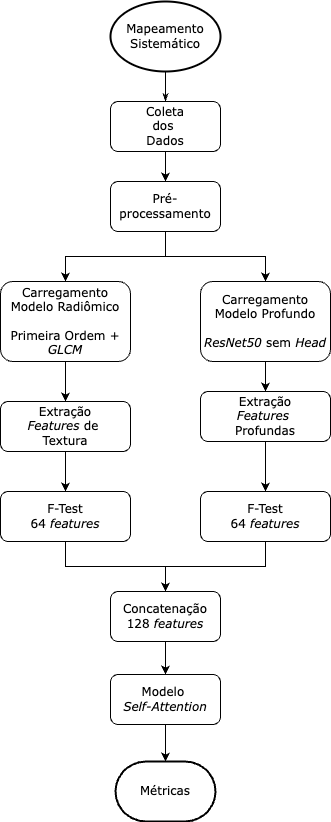
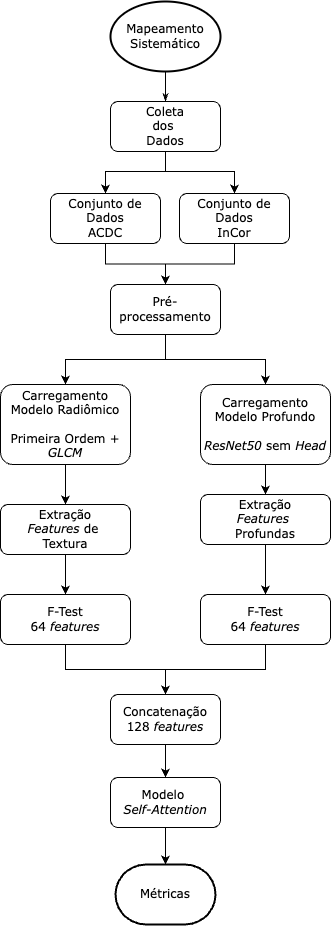
Correção Parcial Completa

diff --git a/04-metodologia.tex b/04-metodologia.tex
@@ -1,13 +1,24 @@
 \chapter{Metodologia} 
 \label{chap:metodologia}
 
-O objetivo deste trabalho é propor e investigar uma arquitetura de aprendizado profundo que unifica características radiômicas e características profundas. Inicialmente, é empregado diversas técnicas de aprendizado de máquina para extrair características manuais de imagens de RM, abrangendo textura, forma, escala de cinza, etc. Posteriormente, uma rede \textit{ResNet50} pré-treinada é utilizada para extrair características profundas que encapsulam informações semânticas de alto nível e de representação das imagens de \gls{RMC}. Estas características são então fundidas em um vetor de características unificado. Para aprimorar a acurácia e a robustez, um módulo foi desenvolvido utilizando o mecanismo de autoatenção, módulo este que otimiza e pondera o vetor de características fundidas de forma eficaz.
+O objetivo deste trabalho é propor e investigar uma arquitetura de aprendizado profundo que unifica características radiômicas e características profundas. Inicialmente, é empregado diversas técnicas de aprendizado de máquina para extrair características manuais de imagens de RM, abrangendo textura, forma, escala de cinza, etc. Posteriormente, uma rede \textit{ResNet50} pré-treinada é utilizada para extrair características profundas que encapsulam informações semânticas de alto nível e de representação das imagens de \gls{RMC}. Estas características são então fundidas em um vetor de características unificado. Para aprimorar a acurácia e a robustez, um módulo foi desenvolvido utilizando o mecanismo de autoatenção, módulo este que otimiza e pondera o vetor de características fundidas de forma eficaz. A Figura \ref{fig:fig015} confere o fluxograma do projeto ilustrando de forma esquemática as fases que serão atuadas.
+
+\begin{figure}[h!]
+    \centering
+    \caption{Fluxograma do Projeto}
+    \includegraphics[width=0.4\textwidth]{figures/fig015.png}
+    \caption*{Fonte: Autor}
+    \label{fig:fig015}
+\end{figure}
 
 %--------------------------------------------------------
-\subsection{Conjunto de Dados} 
+\section{Bases de Dados} 
 \label{subsec:cap4_dataset}
 
-\subsubsection{Conjunto de Dados ACDC} 
+Duas bases de dados serão utilizas para experimento. O primeiro conjunto de dados é o \gls{ACDC}\footnote{https://www.creatis.insa-lyon.fr/Challenge/acdc/databases.html}, sendo seus dados públicos para fins de pesquisa. O segundo conjunto de dados consiste, de um conjunto de dados privado, seu acesso se dá pela parceria existente entre a \gls{FEI} e o \gls{InCor}.
+
+%--------------------------------------------------------
+\subsection{Conjunto de Dados ACDC} 
 \label{subsec:cap4_acdc}
 
 O conjunto de dados \gls{ACDC} foi criado a partir de exames clínicos reais adquiridos no hospital universitário de Dijon (França). Os dados adquiridos foram totalmente anonimizados e tratados de acordo com as regulamentações estabelecidas pelo comitê ético local do hospital de Dijon. O conjunto de dados cobre várias patologias bem definidas com casos suficientes para (1) treinar adequadamente métodos de aprendizado de máquina e (2) avaliar claramente as variações dos principais parâmetros fisiológicos obtidos a partir de cine-RM (em particular volume diastólico e fração de ejeção). O conjunto de dados é composto por 150 exames (todos de pacientes diferentes) divididos em cinco subgrupos distribuídos de forma igualitária, sendo quatro patológicos e um grupo de sujeitos saudáveis. Dentre as cinco classes distintas, tem-se: \gls{DCM}, \gls{HCM}, \gls{NOR}, \gls{MINF} e \gls{RV}. As classes \gls{DCM} e |gls{HCM} são interpretadas como passíveis de \gls{CMH} e as demais; \gls{NOR}, \gls{MINF} e \gls{RV}; são interpretadas como o coração em condições normais, detalhes das classes podem ser verificados na Tabela \ref{tab:conditions}. 
@@ -65,7 +76,7 @@ Além disso, cada paciente vem com as seguintes informações adicionais: peso, 
     \renewcommand{\arraystretch}{1} % default é 1 
     \begin{tabular}{|c|c|c|c|}
     \hline 
-          \textbf{Grupo} & \textbf{Quantidade} & \textbf{C/ HC} & \textbf{S/ HC}  \\ 
+          \textbf{Grupo} & \textbf{Quantidade} & \textbf{C/ CH} & \textbf{S/ CH}  \\ 
     \hline 
         NOR & 30 & 0 & 30 \\ 
         DCM & 30 & 30 & 0\\ 
@@ -81,7 +92,7 @@ Além disso, cada paciente vem com as seguintes informações adicionais: peso, 
 \end{table}
 
 %--------------------------------------------------------
-\subsubsection{Conjunto de Dados InCor} 
+\subsection{Conjunto de Dados InCor} 
 \label{subsec:cap4_incor}
 
 O conjunto de dados \gls{InCor} é composto por casos reais de pacientes que realizaram exames de \gls{RMC} e que foram classificados por especialistas do \gls{InCor} como casos que continham cardiomiopatia hipertrófica, cardiomiopatia dilatada ou nenhuma das duas anomalias. No total foram adquiridos 400 casos, distribuídos conforme a Figura \ref{fig:fig013}, na qual é possível verificar que a maioria dos casos (69\%) pertencem a indivíduos do sexo masculino, enquanto 31\% pertencem a mulheres. Dentro do grupo de homens verificou-se uma predominância de casos sem anomalia para pacientes com idades entre 21 a 41 anos (25\%), enquanto no grupo de mulheres notou-se que o número maior de casos (21\%) era composto por casos hipertróficos em pacientes com idade entre 42 a 62 anos \cite{bergamascoRECUPERACAOOBJETOSMEDICOS2018}.
@@ -95,38 +106,25 @@ O conjunto de dados \gls{InCor} é composto por casos reais de pacientes que rea
 \end{figure}
 
 %---------------------------------------------------------
-\section{ResNet}
-\label{subsec:cap4_resnet}
+\section{Pré-Processamento}
+\label{subsec:cap4_preprocess}
 
-A \textit{ResNet} (Rede Residual) é uma arquitetura de rede neural profunda amplamente utilizada em tarefas de visão computacional, como classificação de imagens, detecção de objetos e segmentação de imagens. Ela foi introduzida por  \cite{heDeepResidualLearning2015}, e se destacou por ganhar a competição ImageNet em 2015 com uma precisão significativamente maior do que as arquiteturas anteriores. A principal característica da \textit{ResNet} é sua capacidade de treinar redes muito profundas sem sofrer com o problema do "desvanecimento do gradiente" que afeta principalmente redes neurais profundas e impede o treinamento de progredir por conta de valores muito baixos de gradiente, problema este muito comum em redes tradicionais muito profundas. A \textit{ResNet} introduz um conceito chave chamado bloco residual que é um componente da rede onde a entrada do bloco é somada à sua saída antes de passar para a próxima camada. Esta conexão direta é chamada de \textit{skip connection} ou \textit{short-cut connection} e pode ser conferida na Figura 11.
-
-\begin{figure}[htbp]
-    \centering
-    \includegraphics[width=0.6\textwidth]{figures/fig013.png}
-    \caption{Fonte: \cite{aiSelfAttentionBasedFusion2023}}
-    \label{fig:fig013}
-\end{figure}
-
-A ResNet é composta por vários blocos residuais empilhados.
-Existem várias versões da \textit{ResNet}, como \textit{ResNet}-18, \textit{ResNet}-34, \textit{ResNet}-50, \textit{ResNet}-101, e \textit{ResNet}-152, onde os números indicam a profundidade total da rede, ou seja, o número de camadas).
-% A \textit{ResNet}, desenvolvidas por \cite{heDeepResidualLearning2015}, são arquiteturas convolucionais formada pela composição de blocos residuais, seguidos de uma camada completamente conectada. Estes blocos, ilustrados na Figura 11, empregam o que os autores chamam de \textit{skip connections}, conexões que permitem que camadas sejam puladas durante o treino, resolvendo o problema conhecido como \textit{vanishing gradient}, que afeta principalmente redes neurais profundas e impede o treinamento de progredir por conta de valores muito baixos de gradiente. A inovação trazida por este modelo permitiu a criação de redes muito mais profundas e pode possuir um número definido de camadas, portanto o uso de nomes como ResNet50 ou ResNet101 é uma prática comum para identificar a quantidade de camadas utilizadas no modelo.
+Na fase de pré-processamento será utilizado o conjunto de dados \gls{ACDC}. No \gls{ACDC} será separado aplicado três classe: \gls{CMH} do grupo HCM, \gls{CMD} do grupo HCM e NOR para os demais grupos. O conjuntos de \textit{frames} utilizados serão os definidos na fase diastólica e a quantidade de \textit{frames} é variada para cada paciente. As características radiômicas e profundas serão extraídas e posteriormente, será aplicado o \textit{F-Test} para selecionar as características mais relevantes, mantendo o mesmo número de ambas as partes. Por fim este resultado será concatenado e servirá de entrada para a rede proposta de autoatenção.
 
 %---------------------------------------------------------
-\subsection{Features Radiômicas}
+\section{Extração de Características Radiômicas}
 \label{subsec:cap4_features_radiomicas}
 
 Serão extraídas características radiômicas de fase diastólica, representada por um conjunto de fatias variando entre 6 e 18 \textit{frames}, de cada paciente usando \gls{GLCM} e estatísticas baseadas em histograma. Será aplicado o filtro \gls{LoG} com cinco valores diferentes em cada parte para suavizar as imagens e realçar as bordas. Foi calculado características \gls{GLCM} como contraste, entropia, correlação, homogeneidade e energia para cada filtro \gls{LoG}. Também é calculado características de intensidade como média, variância, média dos percentis (10 e 90), desvio robusto da média absoluta, curtose e assimetria usando estatísticas de primeira ordem. Foram obtidos 78 características radiômicas para cada paciente dentro da quantidade de fatias extraídas na fase diastólica.
 
-% @TODO - Fase diastólica explicar pag - 33
-
 %---------------------------------------------------------
-\subsection{Features Profundas}
+\section{Extração de Características Profundas}
 \label{subsec:cap4_features_profundas}
  
 Para extrair características profundas das imagens de \gls{RMC}, é utilizada a arquitetura pré-treinada de um \textit{ResNet50} sem sua última camada totalmente conectada, treinada no conjunto de dados \textit{ImageNet}. Estudos anteriores demonstraram que o pré-treinamento com \textit{ImageNet} pode melhorar o desempenho de tarefas de classificação de imagens médicas. \textit{ResNet50} é um modelo de rede neural convolucional profunda com 50 camadas que compreende muitos blocos residuais. Cada bloco contém módulos de convolução e uma conexão de salto que transfere a informação do bloco anterior para o próximo bloco. A conexão de salto ajuda a reter a informação semântica mais básica aprendida nas camadas anteriores, que de outra forma se tornaria abstrata devido à conexão de longa cadeia. A conexão de salto também evita o desaparecimento do gradiente nas camadas mais profundas ao fornecer um caminho alternativo para a retropropagação. A informação da conexão de salto é adicionada à informação calculada em cada bloco \cite{aiSelfAttentionBasedFusion2023}. Ao todo são 2048 características coletadas da saída deste modelo.
 
 %---------------------------------------------------------
-\subsection{Unificando as Features}
+\section{Concatenação}
 \label{subsec:cap4_unificando_features}
 
 Um vez em posse das features radiômicas, é aplicado um \textit{F-Test} tanto às 78 características radiômicas quanto às 2048 características profundas, reduzindo cada um dos vetores ao espaço de 64 características. No método de fusão convencional, simplesmente é concatenado os dois vetores de características como na Eq. \ref{eq:concat}, onde \textit{Concat} simplesmente concatena os dois vetores. Unificando ambos os vetores obtemos o valor resultante de 128 características o qual será enviado ao mecanismo de autoatenção.
@@ -137,16 +135,13 @@ F_{hd} = \textit{Concat}(F_h, F_d)
 \end{equation}
 
 %---------------------------------------------------------
-\subsection{Módulo de Fusão de Autoatenção}
+\section{Modelo de Autoatenção}
 \label{subsec:cap4_mod_self_attention}
 
-Neste trabalho é empregado o mecanismo de autoatenção para aprender a importância de cada característica e capturar suas dependências de longo alcance. Como ilustrado na Figura \ref{fig:fig011}, o módulo de fusão de autoatenção é utilizado para mapear uma consulta ($Q$), chave ($K$) e valor ($V$) para um valor de atenção. São utilizadas as 128 características concatenadas $F_{hd}$  como \textit{tokens} e projetada cada característica em três matrizes aprendíveis: matriz chave $K$, matriz consulta $Q$ e matriz de valor $V$ por produto escalar com as matrizes $W_{Q}$, $W_{K}$ e $W_{V}$. Logo os valores $Q$, $K$, $V$ são denotados como $W_{Q}F_{gd}$, $W_{K}F_{gd}$, $W_{V}F_{gd}$ respectivamente, onde $W_{Q}$, $W_{K}$ e $W_{V}$ representam a transformação linear para as matrizes $Q$, $K$ e $V$. O módulo de fusão baseado em autoatenção é definido como segue na Equação \ref{eq:attention}, onde $d_{k}$ é a dimensão do valor de $K$. Sem utilizar operações recorrentes ou convolucionais, o módulo de fusão de autoatenção pode modelar as dependências de longo prazo entre as características de entrada.      Este módulo calcula de forma adaptativa os pesos entre as características com base em sua importância e relevância, capturando de forma mais abrangente as associações entre características radiômicas e profundas. Tal processo realça a capacidade expressiva das características fundidas e permite que o modelo foque mais precisamente nas características mais informativas para prever \gls{CH} e reduzir a influência de características irrelevantes na previsão. Além disso, o modelo pode alocar dinamicamente atenção a diferentes amostras de imagens de \gls{RMC}. Essa flexibilidade permite com que o modelo se adapte melhor à representação de características de diferentes amostras, melhorando a precisão e a generalização da previsão.
+Neste trabalho é empregado o mecanismo de autoatenção para aprender a importância de cada característica e capturar suas dependências de longo alcance. Como ilustrado na Figura \ref{fig:fig011}, o módulo de fusão de autoatenção é utilizado para mapear uma consulta ($Q$), chave ($K$) e valor ($V$) para um valor de atenção. São utilizadas as 128 características concatenadas $F_{hd}$ como \textit{tokens} e projetada cada característica em três matrizes aprendíveis: matriz chave $K$, matriz consulta $Q$ e matriz de valor $V$ por produto escalar com as matrizes $W_{Q}$, $W_{K}$ e $W_{V}$. Logo os valores $Q$, $K$, $V$ são denotados como $W_{Q}F_{gd}$, $W_{K}F_{gd}$, $W_{V}F_{gd}$ respectivamente, onde $W_{Q}$, $W_{K}$ e $W_{V}$ representam a transformação linear para as matrizes $Q$, $K$ e $V$. O módulo de fusão baseado em autoatenção é definido como segue na Equação \ref{eq:attention}, onde $d_{k}$ é a dimensão do valor de $K$. Sem utilizar operações recorrentes ou convolucionais, o módulo de fusão de autoatenção pode modelar as dependências de longo prazo entre as características de entrada.
+Este módulo calcula de forma adaptativa os pesos entre as características com base em sua importância e relevância, capturando de forma mais abrangente as associações entre características radiômicas e profundas. Tal processo realça a capacidade expressiva das características fundidas e permite que o modelo foque mais precisamente nas características mais informativas para prever \gls{CMH} e reduzir a influência de características irrelevantes na previsão. Além disso, o modelo pode alocar dinamicamente atenção a diferentes amostras de imagens de \gls{RMC}. Essa flexibilidade permite com que o modelo se adapte melhor à representação de características de diferentes amostras, melhorando a precisão e a generalização da previsão.
 
-%---------------------------------------------------------
-\subsection{Função de Perda}
-\label{subsec:cap4_funcao_perda}
-
-A função de perda utilizada utilizada no modelo é a função de entropia cruzada binária, do termo  \gls{BCE}, que é calculada pela Eq. \ref{eq:bce} onde $\mathcal{L}_{bce}$ denota o \gls{BCE}, $N$ denota o número de imagens de \gls{RMC}, $r$ denota a classe alvo de \gls{CH} e $\hat{r}$ o valor previsto pelo modelo de \gls{CH}, 1 indica indícios de \gls{CH} e 0 sua ausência.
+A função de perda utilizada utilizada no modelo é a função de entropia cruzada binária, do termo  \gls{BCE}, que é calculada pela Equação. \ref{eq:bce} onde $\mathcal{L}_{bce}$ denota o \gls{BCE}, $N$ denota o número de imagens de \gls{RMC}, $r$ denota a classe alvo de \gls{CH} e $\hat{r}$ o valor previsto pelo modelo de \gls{CMH}, 1 indica indícios de \gls{CMH} e 0 sua ausência.
 
 \begin{equation}
 \mathcal{L}_{bce} = -\frac{1}{N} \sum_{i=1}^N
@@ -155,12 +150,31 @@ A função de perda utilizada utilizada no modelo é a função de entropia cruz
 \end{equation}
 
 %---------------------------------------------------------
-\subsection{Arquitetura Proposta}
-\label{subsec:cap4_arquitetura_proposta}
+\section{Métricas}
+\label{subsec:cap4_metrics}
+Para medir o desempenho da solução serão aplicadas as seguintes métricas: acurácia, precisão, revocação expressas pelas equações \ref{eq:acc}, \ref{eq:precision} e \ref{eq:recall}.
+Também é calculada a \gls{AUC}, também reconhecida como a área que avalia o modelo em diversos limites contínuos de decisão, verificando a taxa de verdadeiros positivos contra falsos positivos em cada limite.
 
-O esquemático da arquitetura proposta pode ser conferida na Figura \ref{fig:fig011}. A imagens de \gls{RMC} são expostas ao seletor de características via \textit{F-test}, as características selecionadas são concatenadas e enviadas ao módulo de fusão de autoatenção, por fim uma camada linear de 128 características precede um camada linear com um único neurônio para a classificação binária.
+\begin{equation}
+  \textit{Acurácia} = \frac{\textit{TP} + \textit{TN}}{\textit{TP} + \textit{TN} + \textit{FP} + \textit{FN}}
+  \label{eq:acc}
+\end{equation}
 
-% @TODO Mover essa parte. pag - 35
+\begin{equation}
+  \textit{Precisão} = \frac{\textit{TP}}{\textit{TP} + \textit{FP}}
+  \label{eq:precision}
+\end{equation}
+
+\begin{equation}
+  \textit{Revocação} = \frac{\textit{TP}}{\textit{TP} + \textit{FN}}
+  \label{eq:recall}
+\end{equation}
+
+%---------------------------------------------------------
+\section{Arquitetura Proposta}
+\label{subsec:cap4_architecture}
+
+O esquemático da arquitetura proposta pode ser conferida na Figura \ref{fig:fig011}. A imagens de \gls{RMC} são expostas ao seletor de características via \textit{F-Test}, as características selecionadas são concatenadas e enviadas ao módulo de fusão de autoatenção, por fim uma camada linear de 128 características precede um camada linear com um único neurônio para a classificação binária. A arquitetura proposta tem como base o trabalho de \cite{aiSelfAttentionBasedFusion2023}.
 
 \begin{figure}[htbp]
     \centering
@@ -170,47 +184,8 @@ O esquemático da arquitetura proposta pode ser conferida na Figura \ref{fig:fig
     \label{fig:fig011}
 \end{figure}
 
-Para medir o desempenho da solução serão aplicadas as seguintes métricas: acurácia e precisão, expressas pelas equações \ref{eq:acc}, \ref{eq:precision} e \ref{eq:recall}.
-Também é calculada a \gls{AUC}, também reconhecida como a área que avalia o modelo em diversos limites contínuos de decisão, verificando a taxa de verdadeiros positivos contra falsos positivos em cada limite.
-
-% A precisão foi escolhida neste contexto pois quanto maior esta for, menor é a taxa de falso negativo nos resultados. A precisão é pertinente quando o custo com a identificação de falso positivos é alto, como é o caso de doenças fatais.
-
-\begin{equation}
-\textit{Acurácia} = \frac{\textit{TP} + \textit{TN}}{\textit{TP} + \textit{TN} + \textit{FP} + \textit{FN}}
-\label{eq:acc}
-\end{equation}
-
-\begin{equation}
-\textit{Precisão} = \frac{\textit{TP}}{\textit{TP} + \textit{FP}}
-\label{eq:precision}
-\end{equation}
-
-\begin{equation}
-\textit{Revocação} = \frac{\textit{TP}}{\textit{TP} + \textit{FN}}
-\label{eq:recall}
-\end{equation}
-
-%---------------------------------------------------------
-\subsection{Fluxograma}
-\label{subsec:cap4_floxugrama}
-
-A Figura \ref{fig:fig015} confere o fluxograma do projeto ilustrando de forma esquemática suas fases de atuação.
-
-% @TODO Mover essa parte. pag - 36
-
-\begin{figure}[h!]
-    \centering
-    \caption{Fluxograma do Projeto}
-    \includegraphics[width=0.4\textwidth]{figures/fig015.png}
-    \caption*{Fonte: Autor}
-    \label{fig:fig015}
-\end{figure}
-
-% @TODO Acrescentar dados Incor e ACDC. pag - 37
-
-
 %---------------------------------------------------------
 \section{Considerações Finais do Capítulo}
 \label{sec:cap4_consideracoes_finais}
 
-Como considerações, destacam-se o uso de base de dados pública, com dados de pacientes incluindo o conjuntos de fatias que identificam a ação de sístole e diástole do coração. É aplicado pré-processamento do qual é extraído manualmente 78 características radiômicas, características estas que analisam textura, níveis e variações dos tons de cinza incluindo diversas estatísticas como de primeira ordem e o \gls{GLCM}. Ainda em fase de pré-processamento é extraída as características profundas oriundas do modelo de visão \textit{ResNet50}, com os pesos treinados na base de dados da \textit{ImageNet}. É removida a última camada linear da \textit{ResNet50} resultando ao seu final, sem a camada classificadora, 2048 características. Em posse de ambas as features, é aplicada a técnica de \textit{F-test} para obter as 64 características mais relevantes e, após, concatená-las obtendo um vetor de características de 128 características. Este vetor é exposto ao módulo de fusão com autoatenção, identificando as características mais determinantes independente de espacialidade. 
+Como considerações, destacam-se o uso de base de dados pública, com dados de pacientes incluindo o conjuntos de fatias que identificam a ação de sístole e diástole do coração. É aplicado pré-processamento do qual é extraído manualmente 78 características radiômicas, características estas que analisam textura, níveis e variações dos tons de cinza incluindo diversas estatísticas como de primeira ordem e o \gls{GLCM}. Ainda em fase de pré-processamento é extraída as características profundas oriundas do modelo de visão \textit{ResNet50}, com os pesos treinados na base de dados da \textit{ImageNet}. É removida a última camada linear da \textit{ResNet50} resultando ao seu final, sem a camada classificadora, 2048 características. Em posse de ambas as features, é aplicada a técnica de \textit{F-Test} para obter as 64 características mais relevantes e, após, concatená-las obtendo um vetor de características de 128 características. Este vetor é exposto ao módulo de fusão com autoatenção, identificando as características mais determinantes independente de espacialidade. 

diff --git a/06-resultados_preliminares.tex b/06-resultados_preliminares.tex
@@ -1,48 +1,37 @@
 \chapter{Resultados  Preliminares}
 \label{chap:resultados_discussao}
 
-%--------------------------------------------------------
-\section{Trabalhos Desenvolvidos} 
-\label{sec:cap6_trabalhos_desenvolvidos}
+Os testes iniciais foram aplicados ao conjunto de dados do \gls{ACDC}. Este conjunto de dados público já vem separado com 100 exames para treino e 50 para testes. A Figura \ref{fig:fig018} e \ref{fig:fig019} são exemplos de imagens de \gls{DCM} e \gls{HCM} capturadas na diástole com suas respectivas máscaras. Na Figura \ref{fig:fig020} temos uma imagem de coração em estado sem anomalia (\gls{NOR}). As imagens demonstradas fazem parte do conjunto de treinamento.
 
-Em paralelo a este trabalho, houve a contribuição com o seguinte trabalho \cite{adornoAutomaticDetectionPeople2023}, trabalho este que visa dar apoio ao metrô de São Paulo na identificação de pessoas com deficiência, para liberar o acesso de forma mais coerente, à apenas aqueles que realmente se encontram nas categorias atendidas, como idosos, gestantes, cadeirantes, etc. Este projeto lida com visão computacional, mais precisamente detecção de objetos, e avalia uma família de modelos para tal tarefa.
-
-
-%--------------------------------------------------------
-\section{Resultados} 
-\label{sec:cap6_resultados}
-
-Os testes iniciais foram aplicados ao conjunto de dados do \gls{ACDC}. Este conjunto de dados público já vem separado com 100 exames para treino e 50 para testes. A Figura \ref{fig:fig018} e \ref{fig:fig019} são exemplos de imagens de \gls{DCM} e \gls{HCM} capturadas na diástole, todas com suas respectivas máscaras, capturadas em momento de diástole do coração. Na Figura \ref{fig:fig020} temos uma imagem de coração em estado normal (\gls{NOR}). As imagens demonstradas fazem parte do conjunto de treinamento.
-
-\begin{figure}[htbp]
-    \caption{Captura Diastólica DCM}
+\begin{figure}[h!]
     \centering
+    \caption{Captura Diastólica CMD}
     \includegraphics[width=0.65\textwidth]{figures/fig018.png}
-    \caption{Fonte: Autor}
+    \caption*{Fonte: Autor}
     \label{fig:fig018}
 \end{figure}
 
-\begin{figure}[htbp]
-    \caption{Captura Diastólica de HCM}
+\begin{figure}[h!]
+    \caption{Captura Diastólica de CMH}
     \centering
     \includegraphics[width=0.65\textwidth]{figures/fig019.png}
-    \caption{Fonte: Autor}
+    \caption*{Fonte: Autor}
     \label{fig:fig019}
 \end{figure}
 
-\begin{figure}[htbp]
-    \caption{Captura Diastólica NOR}
+\begin{figure}[h!]
     \centering
+    \caption{Captura Diastólica NOR}
     \includegraphics[width=0.65\textwidth]{figures/fig020.png}
-    \caption{Fonte: Autor}
+    \caption*{Fonte: Autor}
     \label{fig:fig020}
 \end{figure}
 
-Os resultados foram obtidos aplicando a metodologia previamente apresentada, foi extraídas as \textit{features} radiômicas e profundas, após foi aplicado o \textit{F-Test} para seleção de \textit{features} e o resultado concatenado. Em seguida, o modelo de autoatenção foi aplicado, os hiperparâmetros utilizados são: taxa de aprendizado $0,0001$, otimizador \gls{Adam} e aproximadamente 300 épocas. Por fim, é aplicada a função matemática sigmoide e definido o limite de $0,5$ para corte onde os valores acima deste limite são classificados como \gls{CH} e os demais como normal. As métricas resultantes podem ser conferidas na Tabela \ref{tab:metrics}.
+Os resultados foram obtidos aplicando a metodologia previamente apresentada, foram extraídas as características radiômicas e profundas, após foi aplicado o \textit{F-Test} para seleção de características e o resultado concatenado. Em seguida, o modelo de autoatenção foi aplicado, os hiperparâmetros utilizados são: taxa de aprendizado $\LR$, otimizador \gls{Adam} e aproximadamente $\Epochs$ épocas. Por fim, é aplicada a função matemática sigmoide e definido o limite de $0,5$ para corte onde os valores acima deste limite são classificados como \gls{CMH} e os demais como normal. As métricas resultantes podem ser conferidas na Tabela \ref{tab:metrics}. A matriz de confusão é apresentada na Figura \ref{fig:fig016} e um gráfico ilustrando da \gls{ROC} é apresentado na Figura \ref{fig:fig017}
 
-\begin{table}[hbtp]
+\begin{table}[h!]
     \centering
-    \caption{Fonte: Métricas do Experimento}
+    \caption{Métricas do Experimento}
     \renewcommand{\arraystretch}{1} % default é 1 
     \begin{tabular}{|c|c|}
     \hline 
@@ -61,36 +50,25 @@ Os resultados foram obtidos aplicando a metodologia previamente apresentada, foi
     \label{tab:metrics}
 \end{table}
 
-A matriz de confusão é conferida Figura \ref{fig:fig016}.
-
-\begin{figure}[htbp]
-    \caption{Matriz de Confusão}
+\begin{figure}[h!]
     \centering
+    \caption{Matriz de Confusão}
     \includegraphics[width=0.55\textwidth]{figures/fig016.png}
     \caption*{Fonte: Autor}
     \label{fig:fig016}
 \end{figure}
 
-Um gráfico ilustrativo da \gls{ROC} é visto na Figura \ref{fig:fig017}
-
-\begin{figure}[htbp]
-    \caption{ROC}
+\begin{figure}[h!]
     \centering
+    \caption{ROC}
     \includegraphics[width=0.75\textwidth]{figures/fig017.png}
     \caption*{Fonte: Autor}
     \label{fig:fig017}
 \end{figure}
 
 %--------------------------------------------------------
-\section{Conclusão dos Resultados} 
-\label{sec:cap6_conclusãp_resultados}
+\section{Considerações Finais do Capítulo} 
+\label{sec:cap6_consideracoes_finais}
 
-Os resultados obtidos, diferente do trabalho similar aplicado à identificação de câncer no pulmão, obteve resultados pouco relevantes o que indica que há espaço para exploração e melhoria para o âmbito de \gls{CH}. Algumas, abordagens ainda são tidas em vista como manipular o seletor de \textit{features} e a sua quantidade, testar novos hiperparâmetros para os modelos, ao invés de ter um único módulo de autoatenção, aplicar vários em cascata, etc.
-
-
-% %--------------------------------------------------------
-% \subsection{Experimentos ACDC}
-% \label{subsec:cap5_experimentos_acdc}
-
-
+Os resultados obtidos, aplicando a arquitetura proposta por \citeonline{aiSelfAttentionBasedFusion2023} com modificações na quantidade de características utilizadas e aplicado em imagens de \gls{RMC} para identificação de cardiomiopatias, em contraste com o trabalho mencionado que foi aplicado à identificação de câncer no pulmão, obteve resultados menos relevantes que o original. Isto indica que há espaço para exploração e melhorias a serem proposta para o âmbito de cardiomiopatia. Algumas, abordagens ainda são tidas em vista como manipular o seletor de características e a sua quantidade, testar novos hiperparâmetros para os modelos, ao invés de ter um único módulo de autoatenção, aplicar vários em cascata, etc.
 

diff --git a/02-fundamentacao_teorica.tex b/02-fundamentacao_teorica.tex
@@ -72,6 +72,23 @@ As análises baseadas em modelos visam interpretar \textit{features} em níveis 
 \subsection{\textit{Features} de Transformação}
 Métodos Baseados em Transformadas, incluindo transformadas de \textit{Fourier}, \textit{Gabor} e de \textit{wavelets} de \textit{Haar}, analisam padrões de níveis de cinza em um espaço diferente. A transformada discreta de \textit{wavelet} de \textit{Haar}, por exemplo, analisa o conteúdo da frequência de uma imagem em diferentes escalas. A decomposição por \textit{wavelets} de uma imagem é possível aplicando um par de filtros espelhados em quadratura, um filtro de passa-alta e um de passa-baixa. Embora o filtro de passa-alta destaque as mudanças no nível de cinza e, assim, enfatize detalhes da imagem, o filtro de passa-baixa suaviza a imagem em termos de nível de cinza, removendo detalhes da imagem. Após a decomposição do sinal, um conjunto de canais de frequência orientados espacialmente está disponível, o qual é usado para descrever a variabilidade local da imagem. As energias dentro dos canais de frequência são então usadas como \textit{features}. A filtragem de passa-alta em ambas as direções (Figura \ref{fig:fig001}), captura detalhes diagonais, a filtragem de passa-alta seguida por filtragem de passa-baixa captura bordas verticais, a filtragem de passa-baixa seguida da filtragem de passa-alta captura bordas horizontais, e a filtragem de passa-baixa em ambas as direções captura as frequências mais baixas, em diferentes escalas. Notavelmente, a transformação por \textit{wavelets} pode ser usada não apenas para a geração de \textit{features} radiômicas, mas também para segmentação de imagens ou como um passo de pré-processamento para análise de textura \cite{mayerhoeferIntroductionRadiomics2020}.
 
+%---------------------------------------------------------
+\section{ResNet}
+\label{subsec:cap4_resnet}
+
+A \textit{ResNet} (Rede Residual) é uma arquitetura de rede neural profunda amplamente utilizada em tarefas de visão computacional, como classificação de imagens, detecção de objetos e segmentação de imagens. Ela foi introduzida por \cite{heDeepResidualLearning2015}, e se destacou por ganhar a competição ImageNet em 2015 com uma precisão significativamente maior do que as arquiteturas anteriores. A principal característica da \textit{ResNet} é sua capacidade de treinar redes muito profundas sem sofrer com o problema do "desvanecimento do gradiente" que afeta principalmente redes neurais profundas e impede o treinamento de progredir por conta de valores muito baixos de gradiente, problema este muito comum em redes tradicionais muito profundas. A \textit{ResNet} introduz um conceito chave chamado bloco residual que é um componente da rede onde a entrada do bloco é somada à sua saída antes de passar para a próxima camada. Esta conexão direta é chamada de conexão de salto e pode ser conferida na Figura \ref{fig:fig013}.
+
+\begin{figure}[h!]
+    \centering
+    \caption{Conexão de Salto}
+    \includegraphics[width=0.6\textwidth]{figures/fig013.png}
+    \caption*{Fonte: \cite{aiSelfAttentionBasedFusion2023}}
+    \label{fig:fig013}
+\end{figure}
+
+A ResNet é composta por vários blocos residuais empilhados.
+Existem várias versões da \textit{ResNet}, como \textit{ResNet}-18, \textit{ResNet}-34, \textit{ResNet}-50, \textit{ResNet}-101, e \textit{ResNet}-152, onde os números indicam a profundidade total da rede, ou seja, o número de camadas).
+
 %--------------------------------------------------------
 \section{Extração de Features Profundas}
 Para extrair \textit{features} profundas das imagens de \gls{RMC}, foi empregada a arquitetura pré-treinada de uma rede \textit{ResNet50}. As redes \textit{ResNet50} ficaram muito conhecidas em meados do ano de 2015 por vencer diversas competições em visão computacional, includindo 1º lugar na competição de classificação de imagens \textit{ILSVRC} 2015. As redes \textit{ResNet}, do termo \textit{Residual Networks}, inovaram em sua época trazendo uma forma  de como treinar modelos de maior profundidade, chegando a mais de 100 camadas, com resultados superiores à outros modelos convolucionais competitivos, como o \textit{VGG19}, sem sofrer sintomas comuns a redes neurais muito profundas como o \textit{overfitting} e a saturação ou a ausência dos gradientes em tempo de treino. Os autores da \textit{ResNet} sugeriram o uso de saltos de conexão entre as camadas da rede (Figura \ref{fig:fig003}) afim de manter os gradientes relevantes e controlados entre uma camada e outra.  A \textit{ResNet50} é um modelo de rede neural convolucional profunda de 50 camadas que compreende muitos blocos residuais. A cada bloco, se encontram módulos de convolução e uma conexão de salto que transfere a informação do bloco anterior para o próximo bloco. A conexão de salto ajuda a reter a informação semântica mais baixa aprendida nas camadas anteriores, que de outra forma se tornaria abstrata devido à conexão de longa cadeia. A conexão de salto também evita que o gradiente desapareça nas camadas mais profundas, fornecendo um caminho alternativo para a retropropagação. A informação da conexão de salto é adicionada à informação calculada em cada bloco \cite{heDeepResidualLearning2015}.

diff --git a/05-proposta_experimental.tex b/05-proposta_experimental.tex
@@ -38,18 +38,17 @@ Esta seção visa trazer informações sobre tanto o \textit{hardware} quanto o 
     \label{tab:hardware_software}
 \end{table}
 
-
 %--------------------------------------------------------
 \section{Conjunto de Dados} 
-\label{sec:cap5_conj_dados}
+\label{subsec:cap5_dataset}
 
-A ideia é realizar os experimentos em duas bases distintas com imagens de \gls{RMC}, informações a cerca do paciente e rótulos que indicam presença ou não de cardiomiopatia. O primeiro conjunto de dados é o \gls{ACDC} e consiste de dados públicos e são utilizados como linha de base para avaliação dos métodos aplicados. O segundo conjunto de dados consiste, de um conjunto de dados privado, seu acesso se dá pela parceria existente entre a \gls{FEI} e o \gls{InCor}.
+Este trabalho visa realizar os experimentos em duas bases distintas com imagens de \gls{RMC}, informações a cerca do paciente e rótulos que indicam presença ou não de cardiomiopatia. O primeiro conjunto de dados é o \gls{ACDC} e será utilizado como linha de base para avaliação da metodologia. O conjunto de dados para treino do \gls{ACDC} possui $30$ casos de \gls{CMH}, $30$ casos de \gls{CMD} e $90$ casos normais. O segundo conjunto de dados é o \gls{InCor}, possuindo imagens na fase diastólica contendo as mesmas três classes de interesse previamente mencionadas.
 
 %--------------------------------------------------------
 \subsection{Experimentos ACDC}
 \label{subsec:cap5_experimentos_acdc}
 
-Utilizando o conjunto de dados \gls{ACDC} como linha de base, foi utilizado os 100 exames de pacientes já previamente divididos para treino, coletando apenas as fatias das imagens de RM apontadas como diástole junto com a máscara já disponível. características de primeira ordem e \gls{GLCM} são extraídas compondo ao todo $\RadiomicFeatures$ valores que compõem as características radiômicas. Para extração das características profundas, é utilizada uma rede \textit{ResNet50} congelada e sua última camada densa é removida, já que originalmente é responsável pela predição de 1000 classes, oriundas do conjunto de dados \textit{ImageNet}. A rede, após adaptada, passa a produzir $\DeepFeatures$ características.
+A partir da arquitetura proposta foi realizada uma prova de conceito utilizando o conjunto de treino do \gls{ACDC} como linha de base, composto por $100$ exames de pacientes, coletando apenas as fatias das imagens da fase diastólica e a máscara referente disponibilizada. Características de primeira ordem e \gls{GLCM} são extraídas compondo ao todo $\RadiomicFeatures$ valores que compõem as características radiômicas. Para extração das características profundas, é utilizada uma rede \textit{ResNet50} congelada e sua última camada densa é removida, visto que originalmente esta é responsável pela predição das 1000 classes oriundas do conjunto de dados do \textit{ImageNet}. A rede, após adaptada, passa a produzir $\DeepFeatures$ características.
 
 O \textit{F-Test} é utilizado como seletor de características, aplicado tanto nas características radiômicas quanto nas profundas, selecionando um total de $\SelectedFeatures$ características em cada abordagem: radiômicas e profundas. Essas características são concatenadas, enviadas ao módulo de autoatenção e os resultados armazenados.
 
@@ -64,7 +63,7 @@ Neste experimento foi treinado o modelo utilizando, como função objetivo a ent
 \section{Cronograma}
 \label{sec:cronograma}
 
-O cronograma proposto das atividades segue na Figura \ref{fig:fig014}. De forma resumida, as disciplinas se encontram concluídas, resultados experimentais no conjunto de dados \gls{ACDC} coletados e futuros experimentos arquiteturais em andamento.
+O cronograma proposto das atividades segue na Figura \ref{fig:fig014}. Os itens em azul são atividades concluídas como: disciplinas, revisão bibliográfica, refinamento do tema, testes iniciais, etc. Itens em rosa são atividades em andamento como: implementação de modelos de comparação e escrita da dissertação. Atividades em amarelo são atividades planejadas como: análise de resultados, escrita da dissertação e escrita de artigos.
 
 \begin{figure}[htbp]
     \centering

diff --git a/01-introducao.tex b/01-introducao.tex
@@ -10,22 +10,10 @@ A IA, tem como um de seus componentes as redes neurais profundas, também conhec
 
 Outras técnicas de processamento de imagem como análise de textura vem sendo utilizadas por várias décadas em diversos domínios da medicina. Em oncologia, a análise de textura de imagens de \gls{TC} mostrou correlação com a biologia tumoral subjacente, ao analisar características histológicas diferentes e mutações genéticas específicas. A biologia tumoral subjacente representam mecanismos biológicos fundamentais que estão na base do desenvolvimento, crescimento e progressão de tumores. Em problemas de tumores malignos já bem estabelecidos, a análise de textura se relaciona com a histologia do tumor em muitos tumores sólidos comuns (pulmão, colorretal, esofágico, mama), ela se correlaciona com mutações genéticas específicas e pode acompanhar respostas terapêuticas. Fora da oncologia, mudanças não malignas em órgãos podem ser detectadas, sendo exemplos cirrose hepática e pneumonite intersticial usual. Dentro do domínio de análise de imagens cardíacas, a análise de textura aplicada à \gls{RMC} tem sido usada para avaliar o risco de arritmia pós-infarto do miocárdio, o uso da RMC em imagens sem contraste e com realce tardio de gadolínio em pacientes com \gls{CMH} para prever o resultado é uma área de interesse particular atualmente \cite{schofieldTextureAnalysisCardiovascular2019a}.
 
-% -----------------------------------------
-% @TODO  - pg 11
-% 1) o uso da RMC ou o uso de analise de textura em RMC para detectar cardiomiopatia hipertrofica?
-
-% 2) e a cardiomiopatia dilatada?
-
-% 3) Ao longo de cada frase precisa de uma citação, esse schoffield é para todas? Sugiro variar pelo menos com mais uma. 
-
-% 4) o artigo é de 2019 e vc fala que é uma area de interesse atual.. mas isso é 5 anos atras. rever.
 %-----------------------------------------
 
 Uma área que se utiliza desse tipo de técnica é a análise radiômica que consiste no processo em obter dados qualitativos destas imagens de radiografias combinadas, e por vezes, a extração também da textura destas \cite{lambinRadiomicsExtractingMore2012}. A análise radiômica pode até ser usada para avaliar a resposta ao tratamento ou para transmitir certas características prognósticas. Dentre as doenças do coração, a \gls{CMH} é desenvolvida prioritariamente em jovens e pessoas de meia idade, sendo a mais comum das cardiomiopatias . Mesmo que a \gls{CMH} se apresente de forma assintomática em parte dos casos, esta pode culminar em morte súbita cardíaca, insuficiência cardíaca, acidente vascular cerebral e arritmia . A análise radiômica auxilia com o diagnóstico prévio afim de compreender e atuar nos casos de \gls{CMH} que demonstrem risco ao paciente \cite{kwonComparisonMortalityCause2022}.
 
-%-----------------------------------------
-% @TODO - pg 11
-% Aqui eu comentaria algo assim: que pode atuar no diagnóstico de diversas doenças, como a cardiomiopatia que consiste... (definir em 1 linha e colocar citação) e possui diversos tipos, destacando-se a CMD e CMH, que ocorrem com mais frequência na população mundial (citar).
 %-----------------------------------------
 
 % Algumas de suas características são: extração de características, quantificação e padronização, possibilidade de correlação com dados clínicos. As aplicações da análise radiômica consiste em diversas aplicações clínicas, incluindo diagnóstico auxiliado por computador, predição de resposta ao tratamento, estratificação de pacientes, identificação de biomarcadores e personalização de tratamentos.

diff --git a/07-conclusao.tex b/07-conclusao.tex
@@ -1,6 +1,6 @@
-\chapter{Considerações}
-\label{chap:conclusao}
+\chapter{Considerações Parciais}
+\label{chap:consideracoes_parciais}
 
-Este trabalho foi executado mediante uma metodologia de avaliação da literatura e decidido aplicar técnicas radiômicas de de \gls{DL} no escopo de CH. Foi utilizada uma base de dados pública com exames de diversos pacientes, incluindo imagens da fase de diástole os quais foram utilizados para treinar o modelo. Os dados unem informações radiômicas de textura, dada a intuição de que a unificação de informações de diferentes escopos só tendem a enriquecer as informações e trazer maneiras melhores em como o modelo otimiza, obtendo resultados melhores do que em um cenário isolado.
+Este trabalho foi executado mediante uma metodologia de avaliação da literatura e decidido aplicar técnicas radiômicas de \gls{AP} no escopo de cardiomiopatia. Foi utilizada uma base de dados pública com exames de diversos pacientes, incluindo imagens da fase de diástole os quais foram utilizados para treinar o modelo. Os dados unem informações radiômicas de textura, dada a intuição de que a unificação de informações de diferentes escopos só tendem a enriquecer as informações e trazer maneiras melhores em como o modelo otimiza, obtendo resultados melhores do que em um cenário isolado.
 
-A arquitetura proposta também deve ser aplicada e avaliada futuramente no conjunto de dados da \gls{InCor} o que ajudará a trazer mais percepções e ideias. Os resultados, por hora pouco expressivos, em nada desmerecem o esforço pois é possível notar que há bastante abertura e possibilidade de melhorias e ideias propositivas a cerca deste tema. 
+A arquitetura proposta também deve ser aplicada e avaliada futuramente no conjunto de dados da \gls{InCor} o que ajudará a trazer mais percepções e ideias. Os resultados, pesar de pouco expressivos, indicam possibilidades de melhorias, principalmente em relação a seleção de características para fusão, quantidade de módulos de autoatenção, incorporação de camadas densas para seleção de características em conjunto com a concatenação acopladas ao modelo e obtenção de um conjunto maior de dados. 
